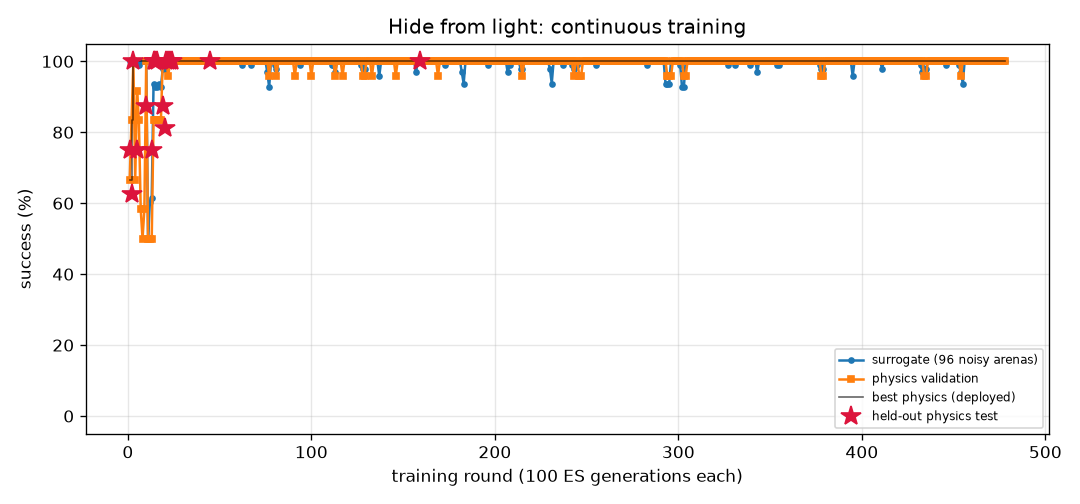
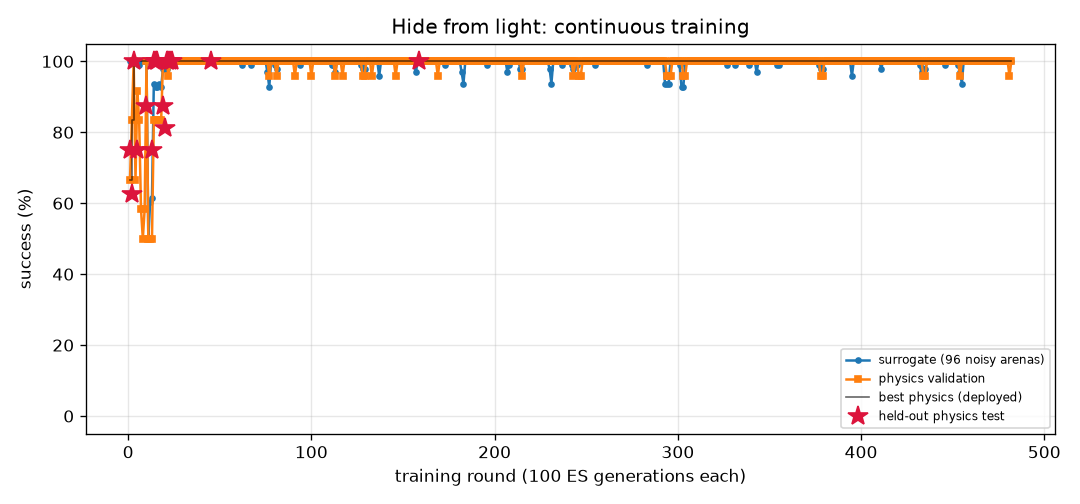
FlyLab: continuous training progress
- walk_forward: optimal, physics val 100% of 24, round 264
- turn: optimal, physics val 100% of 24, round 816
- goto: optimal, physics val 100% of 24, round 218
- odor_seek: optimal, physics val 100% of 24, round 185
- odor_avoid: optimal, physics val 100% of 24, round 746
- light_seek: optimal, physics val 100% of 24, round 413
- light_avoid: optimal, physics val 100% of 24, round 482

diff --git a/projects/09_flylab/training/light_avoid/REPORT.md b/projects/09_flylab/training/light_avoid/REPORT.md
@@ -1,14 +1,14 @@
 # Hide from light (`light_avoid`) — training report
 
-*Auto-generated by `train_brains.py`, last updated 2026-11-03T00:46:28.*
+*Auto-generated by `train_brains.py`, last updated 2026-11-03T01:19:14.*
 
 ![curve](curve.png)
 
 | | |
 |---|---|
-| rounds | 478 |
-| ES generations | 47800 |
-| physics runs | 11744 |
+| rounds | 482 |
+| ES generations | 48200 |
+| physics runs | 11840 |
 | status | **optimal** |
 | best brain | round 159: physics validation **100%** on 24 arenas, surrogate 100% |
 | held-out physics test | **100%** on 32 unseen arenas (95% CI 89%-100%) (errors: [14.4, 56.1, 58.0, 57.9, 57.5, 14.0, 14.4, 56.6, 56.8, 13.3, 14.1, 56.6, 57.6, 13.1, 57.3, 55.9, 57.2, 55.0, 55.2, 53.9, 55.2, 12.4, 53.8, 53.7, 14.1, 13.7, 55.0, 57.8, 56.2, 13.1, 52.8, 56.5]) |
@@ -17,10 +17,6 @@ Physics error per arena: mm gained away from source (> 6 without first approachi
 
 | round | level | gens | sigma | surrogate | physics val | val errors | test | note |
 |---:|---:|---:|---:|---:|---:|---|---:|---|
-| 439 | 3 | 43900 | 0.024 | 100% | 100% | [33.4, 32.8, 32.4, 33.2, 31.8, 32.6, 35.2, 14.5, 24.1, 13.3, 33.2, 31.4, 14.4, 35.8, 33.7, 34.6, 14.2, 31.9, 34.1, 14.4, 31.1, 35.1, 33.8, 33.7] |  | restart from best |
-| 440 | 3 | 44000 | 0.024 | 100% | 100% | [53.0, 55.7, 55.6, 53.1, 51.9, 53.0, 55.4, 14.5, 49.4, 13.3, 53.6, 51.7, 14.4, 50.9, 55.6, 52.9, 14.2, 53.7, 55.5, 14.4, 51.6, 53.1, 55.0, 50.9] |  |  |
-| 441 | 3 | 44100 | 0.024 | 100% | 100% | [54.6, 59.7, 59.4, 55.4, 59.5, 55.9, 58.1, 14.5, 53.1, 13.4, 57.5, 59.3, 14.4, 59.2, 59.6, 57.4, 14.2, 59.9, 60.2, 14.4, 55.5, 57.7, 58.0, 58.8] |  |  |
-| 442 | 3 | 44200 | 0.024 | 100% | 100% | [58.4, 62.6, 62.4, 58.6, 61.9, 59.7, 61.2, 14.5, 12.7, 13.4, 60.1, 61.7, 14.4, 61.8, 62.6, 57.8, 14.2, 62.5, 63.0, 14.4, 60.2, 60.5, 61.1, 61.0] |  |  |
 | 443 | 3 | 44300 | 0.024 | 100% | 100% | [56.4, 60.8, 60.4, 57.4, 61.0, 57.4, 59.1, 14.5, 57.0, 13.4, 60.0, 60.9, 14.4, 58.0, 60.7, 56.3, 14.2, 61.3, 61.1, 14.4, 57.7, 60.3, 59.3, 60.3] |  | restart from best |
 | 444 | 3 | 44400 | 0.024 | 100% | 100% | [56.1, 61.0, 60.7, 56.9, 60.9, 57.8, 59.5, 14.5, 57.7, 13.1, 60.0, 60.8, 14.4, 58.5, 60.9, 55.7, 14.2, 61.5, 61.4, 14.4, 58.7, 59.9, 59.4, 60.2] |  |  |
 | 445 | 3 | 44500 | 0.024 | 100% | 100% | [51.1, 53.4, 53.3, 52.2, 55.7, 52.0, 51.6, 14.5, 52.7, 13.2, 55.6, 55.9, 14.4, 55.3, 53.4, 51.9, 14.2, 55.7, 53.8, 14.4, 50.0, 55.9, 51.5, 55.6] |  |  |
@@ -57,3 +53,7 @@ Physics error per arena: mm gained away from source (> 6 without first approachi
 | 476 | 3 | 47600 | 0.024 | 100% | 100% | [50.3, 54.8, 54.3, 52.1, 55.9, 51.6, 53.1, 14.5, 48.7, 13.5, 53.5, 55.7, 14.4, 54.4, 54.4, 50.6, 14.2, 56.2, 55.0, 14.4, 48.5, 54.1, 53.4, 55.2] |  |  |
 | 477 | 3 | 47700 | 0.024 | 100% | 100% | [57.1, 61.4, 61.1, 57.7, 60.5, 58.4, 60.0, 14.5, 58.0, 13.4, 60.2, 60.3, 14.4, 57.5, 61.3, 57.0, 14.2, 61.1, 61.6, 14.4, 59.0, 60.6, 59.8, 59.6] |  |  |
 | 478 | 3 | 47800 | 0.024 | 100% | 100% | [57.4, 61.0, 60.9, 57.7, 58.9, 57.9, 60.2, 14.5, 54.4, 13.2, 59.6, 58.6, 14.4, 56.4, 61.0, 57.6, 14.2, 59.6, 61.3, 14.4, 57.7, 59.9, 59.9, 57.8] |  |  |
+| 479 | 3 | 47900 | 0.024 | 100% | 100% | [44.1, 44.7, 44.9, 44.2, 41.9, 44.1, 44.8, 14.5, 39.2, 13.3, 44.1, 41.6, 14.4, 41.6, 45.2, 44.2, 14.2, 42.8, 45.0, 14.4, 43.3, 43.7, 43.6, 41.0] |  | restart from best |
+| 480 | 3 | 48000 | 0.024 | 100% | 100% | [35.3, 34.4, 33.8, 35.5, 35.9, 35.5, 33.4, 14.5, 35.2, 13.2, 33.6, 36.2, 14.4, 34.5, 34.2, 35.4, 14.2, 36.3, 36.5, 14.4, 34.5, 35.4, 32.0, 36.4] |  |  |
+| 481 | 3 | 48100 | 0.024 | 100% | 96% | [55.0, 59.8, 59.6, 55.8, 59.3, 56.0, 58.2, 14.5, 46.1, 13.3, 58.9, 59.2, 14.4, 56.4, 59.7, 55.4, 14.2, 59.8, 60.1, 14.4, 57.7, 59.0, 57.8, 58.5] |  |  |
+| 482 | 3 | 48200 | 0.024 | 100% | 100% | [51.2, 51.8, 51.2, 49.0, 52.7, 48.6, 49.9, 14.5, 12.7, 13.4, 53.1, 52.8, 14.4, 51.9, 51.2, 50.8, 14.2, 52.9, 51.5, 14.4, 50.7, 52.2, 50.0, 52.6] |  |  |

diff --git a/projects/09_flylab/training/light_seek/REPORT.md b/projects/09_flylab/training/light_seek/REPORT.md
@@ -1,14 +1,14 @@
 # Walk toward light (`light_seek`) — training report
 
-*Auto-generated by `train_brains.py`, last updated 2026-11-02T21:52:34.*
+*Auto-generated by `train_brains.py`, last updated 2026-11-03T01:07:07.*
 
 ![curve](curve.png)
 
 | | |
 |---|---|
-| rounds | 412 |
-| ES generations | 41200 |
-| physics runs | 6768 |
+| rounds | 413 |
+| ES generations | 41300 |
+| physics runs | 6792 |
 | status | **optimal** |
 | best brain | round 375: physics validation **100%** on 24 arenas, surrogate 100% |
 | held-out physics test | **100%** on 32 unseen arenas (95% CI 89%-100%) (errors: [0.57, 0.54, 0.53, 0.57, 0.55, 0.56, 0.59, 0.56, 0.53, 0.56, 0.71, 0.56, 0.55, 0.54, 0.53, 0.54, 0.54, 0.55, 0.52, 0.65, 0.64, 0.7, 0.58, 0.57, 0.6, 0.62, 0.55, 0.88, 0.54, 0.52, 0.62, 0.57]) |
@@ -17,7 +17,6 @@ Physics error per arena: mm from target at the end (< 1.5 and standing still = s
 
 | round | level | gens | sigma | surrogate | physics val | val errors | test | note |
 |---:|---:|---:|---:|---:|---:|---|---:|---|
-| 373 | 3 | 37300 | 0.024 | 100% | 100% | [0.92, 0.7, 0.85, 0.64, 0.78, 0.73, 0.72, 0.91, 0.58, 0.53, 0.83, 0.98, 0.7, 0.89, 0.89, 0.68, 0.69, 0.9, 0.54, 0.81, 0.58, 0.75, 0.81, 0.79] |  |  |
 | 374 | 3 | 37400 | 0.024 | 100% | 100% | [0.7, 0.83, 0.61, 0.76, 0.65, 0.79, 0.81, 0.69, 0.71, 0.77, 0.74, 0.65, 0.64, 0.66, 0.79, 0.67, 0.74, 0.66, 0.65, 0.66, 0.77, 0.59, 0.67, 0.72] |  |  |
 | 375 | 3 | 37500 | 0.024 | 100% | 100% | [0.6, 0.57, 0.58, 0.53, 0.54, 0.61, 0.57, 0.57, 0.59, 0.56, 0.52, 0.51, 0.52, 0.6, 0.61, 0.52, 0.55, 0.56, 0.6, 0.55, 0.56, 0.59, 0.5, 0.55] | 100% | new best |
 | 376 | 3 | 37600 | 0.024 | 100% | 96% | [0.63, 0.53, 0.77, 0.69, 0.59, 1.56, 0.64, 0.59, 0.65, 0.58, 0.65, 0.64, 0.7, 1.01, 0.63, 0.68, 0.64, 0.65, 0.69, 0.65, 0.64, 1.24, 0.88, 0.72] |  |  |
@@ -57,3 +56,4 @@ Physics error per arena: mm from target at the end (< 1.5 and standing still = s
 | 410 | 3 | 41000 | 0.024 | 100% | 100% | [0.69, 0.61, 0.71, 0.69, 0.63, 0.71, 0.68, 0.69, 0.68, 0.61, 0.74, 0.67, 0.68, 0.68, 0.82, 0.6, 0.66, 0.69, 0.61, 0.75, 0.71, 0.74, 0.68, 0.68] |  |  |
 | 411 | 3 | 41100 | 0.024 | 100% | 100% | [0.54, 0.62, 0.55, 1.15, 0.59, 0.58, 0.56, 0.63, 0.62, 0.6, 0.82, 0.6, 0.49, 0.57, 0.62, 0.51, 0.54, 0.53, 0.64, 0.52, 0.62, 0.69, 0.55, 0.75] |  | restart from best |
 | 412 | 3 | 41200 | 0.024 | 100% | 92% | [0.63, 0.61, 0.93, 1.04, 0.59, 0.56, 0.54, 0.57, 0.56, 0.6, 1.97, 0.58, 0.67, 0.55, 1.62, 0.79, 0.67, 0.58, 0.56, 0.58, 0.56, 0.62, 0.54, 0.63] |  |  |
+| 413 | 3 | 41300 | 0.024 | 100% | 100% | [0.53, 0.49, 0.51, 0.9, 0.5, 0.51, 0.52, 0.56, 0.6, 0.51, 0.88, 0.65, 0.6, 0.56, 0.91, 0.91, 0.57, 0.59, 0.52, 0.88, 0.61, 0.64, 0.58, 0.5] |  |  |

diff --git a/projects/09_flylab/training/TRAINING.md b/projects/09_flylab/training/TRAINING.md
@@ -1,6 +1,6 @@
 # FlyLab brains — continuous training log
 
-*Auto-generated by `train_brains.py`, last updated 2026-11-03T00:52:20.*
+*Auto-generated by `train_brains.py`, last updated 2026-11-03T01:19:14.*
 
 Every skill has its own brain and its own training process: surrogate ES rounds, physics validation in MuJoCo, keep-the-best selection, and a held-out physics test that is never used for selection. See each skill's report for its full round-by-round history. Mastery is progressive: passing a level (100% physics validation, >=95% surrogate) doubles the validation and test arena sets; a brain is **optimal** once it holds up at level 3 (>=95% of 24 validation arenas) AND scores >=90% on the 32 held-out test arenas. Test columns show 95% Wilson confidence intervals.
 
@@ -11,5 +11,5 @@ Every skill has its own brain and its own training process: surrogate ES rounds,
 | [Go to a location](goto/REPORT.md) | 218 | 21800 | 5182 | 100% | 100% of 24 | 100% of 32 (CI 89-100%) | **optimal** |
 | [Find food by smell](odor_seek/REPORT.md) | 185 | 18500 | 3870 | 100% | 100% of 24 | 100% of 32 (CI 89-100%) | **optimal** |
 | [Escape a bad smell](odor_avoid/REPORT.md) | 746 | 74600 | 15210 | 97% | 100% of 24 | 97% of 32 (CI 84-99%) | **optimal** |
-| [Walk toward light](light_seek/REPORT.md) | 412 | 41200 | 6768 | 100% | 100% of 24 | 100% of 32 (CI 89-100%) | **optimal** |
-| [Hide from light](light_avoid/REPORT.md) | 478 | 47800 | 11744 | 100% | 100% of 24 | 100% of 32 (CI 89-100%) | **optimal** |
+| [Walk toward light](light_seek/REPORT.md) | 413 | 41300 | 6792 | 100% | 100% of 24 | 100% of 32 (CI 89-100%) | **optimal** |
+| [Hide from light](light_avoid/REPORT.md) | 482 | 48200 | 11840 | 100% | 100% of 24 | 100% of 32 (CI 89-100%) | **optimal** |
